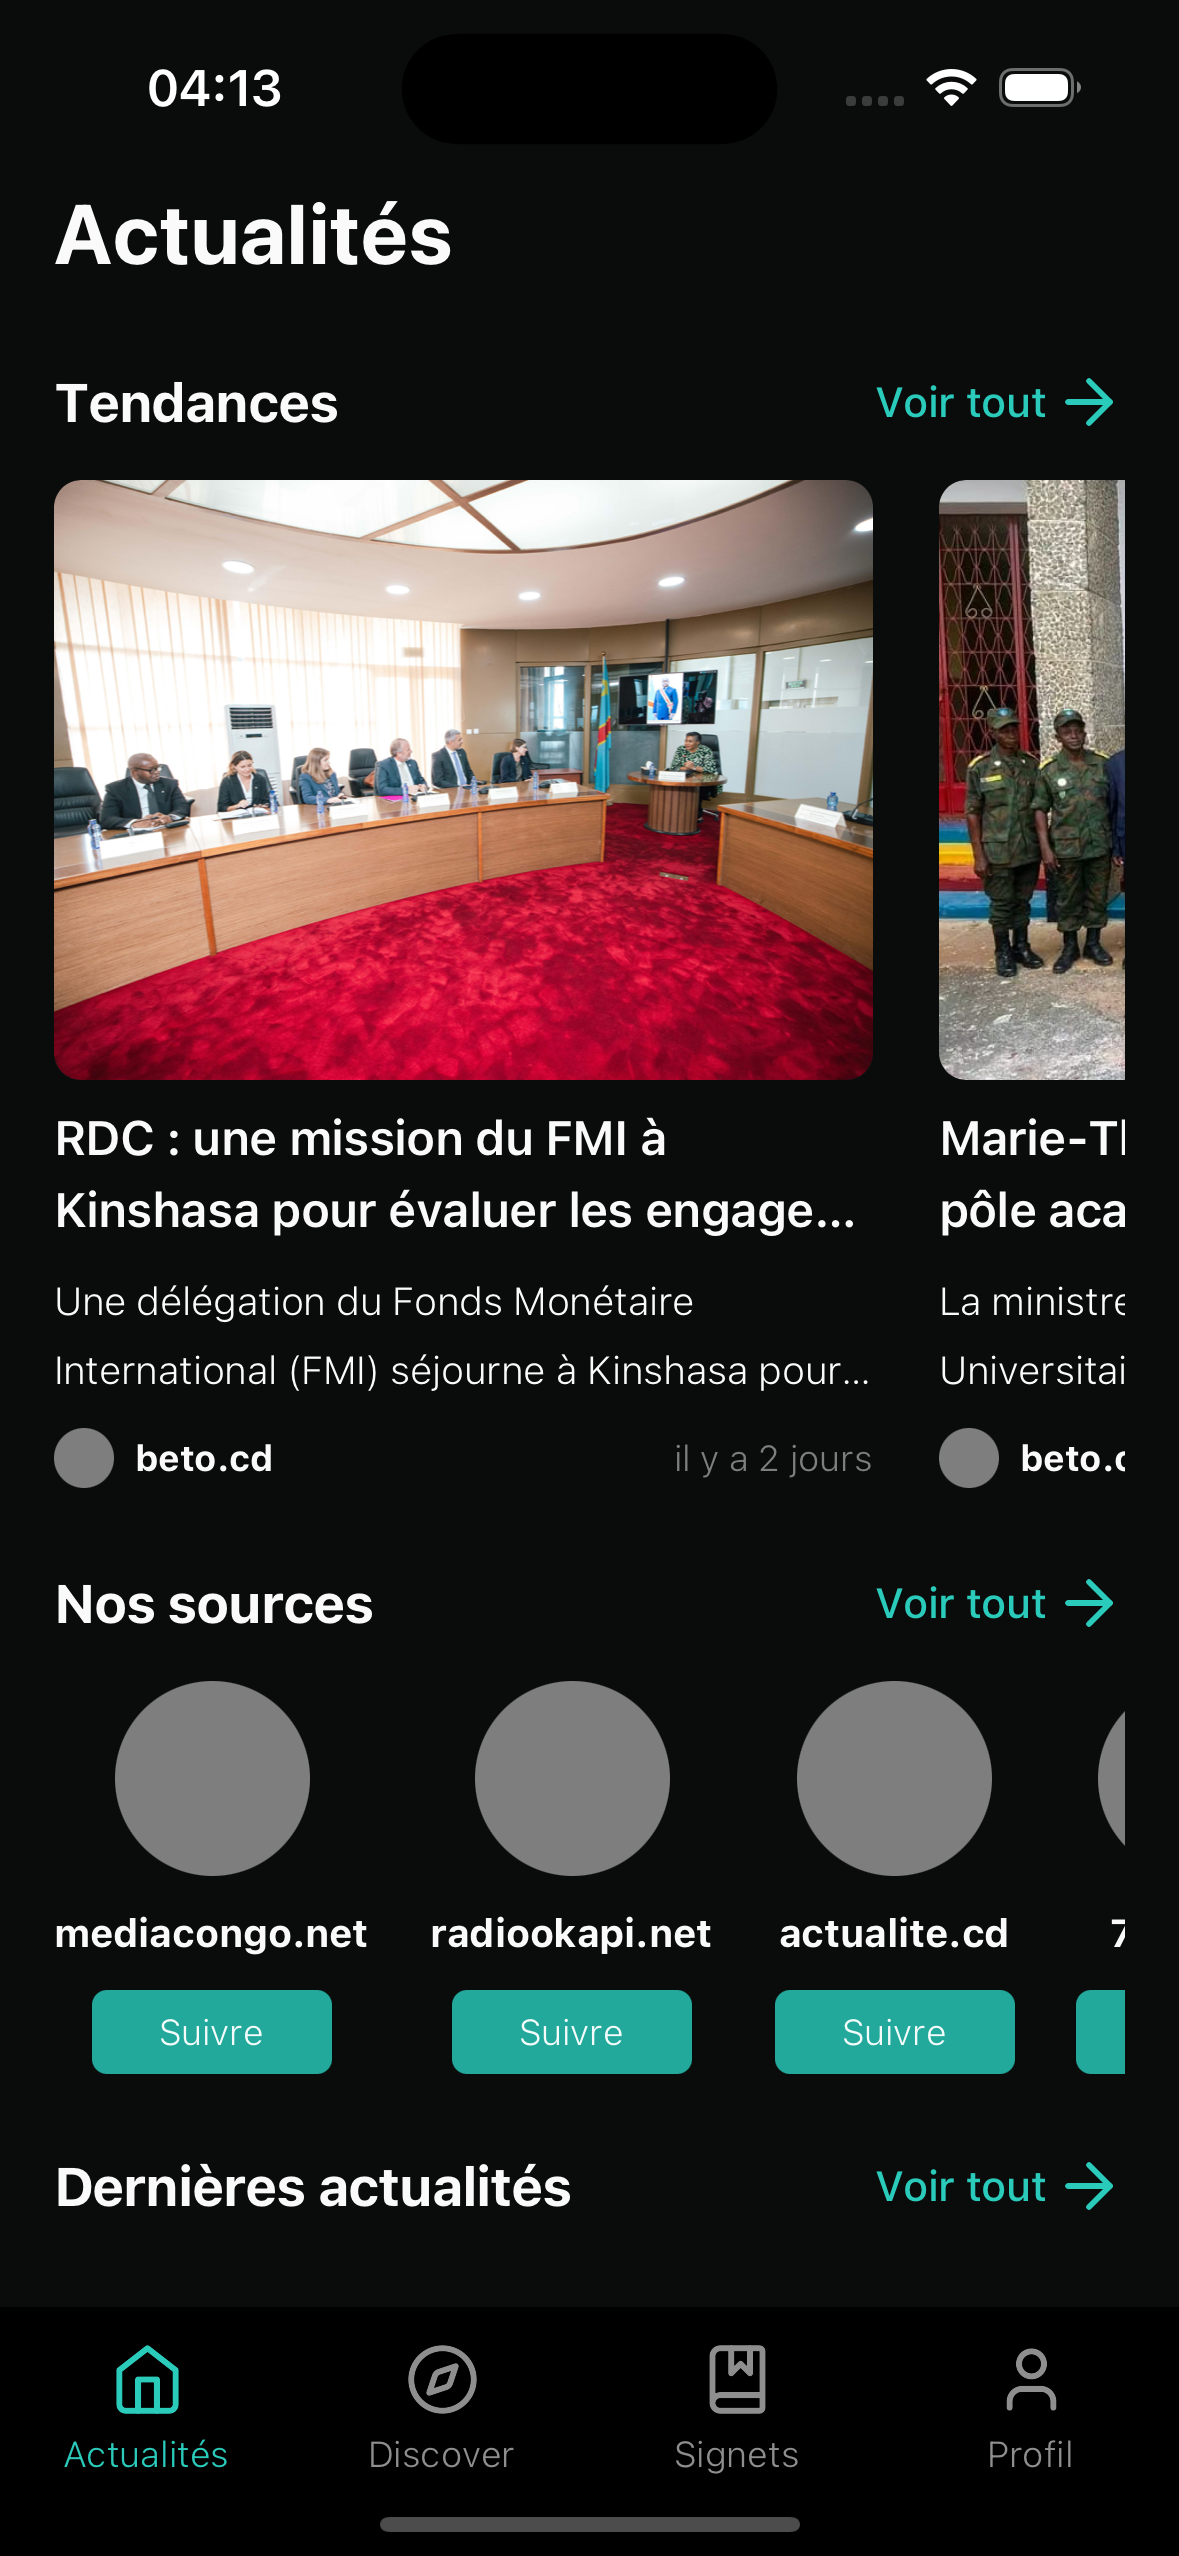
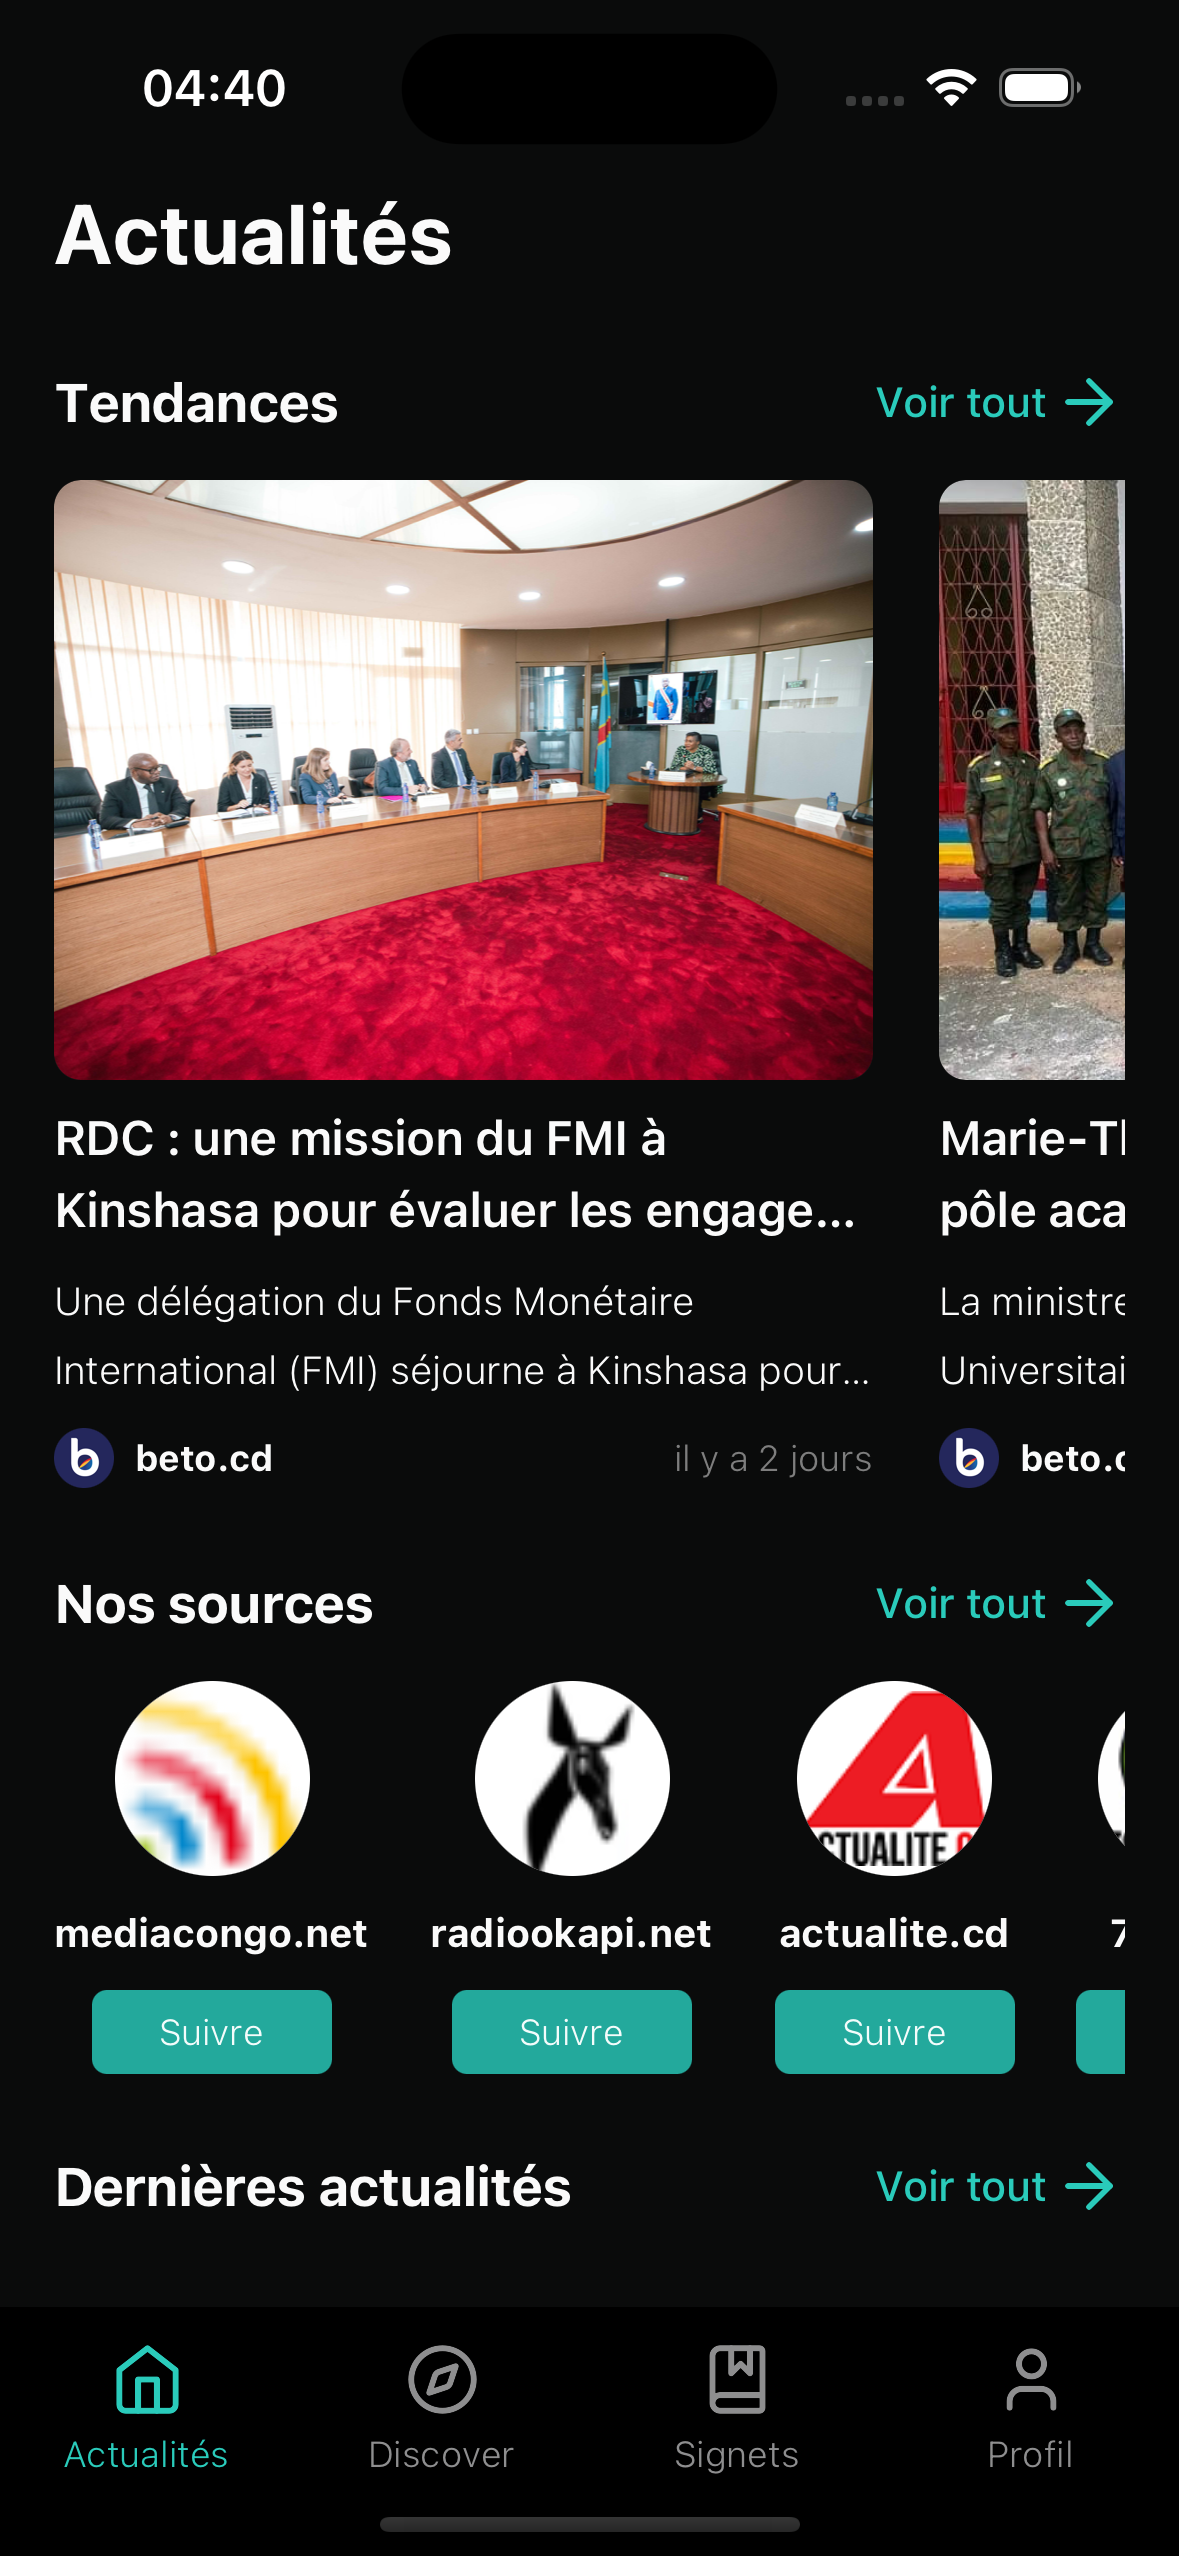
fix: source image url

diff --git a/src/ui/components/content/source/SourceAvatar.tsx b/src/ui/components/content/source/SourceAvatar.tsx
@@ -4,7 +4,7 @@ import {Image, styled} from 'tamagui';
 
 const StyledImage = styled(Image, {
     borderRadius: '$12',
-    backgroundColor: '$gray10',
+    backgroundColor: 'white',
 });
 
 type SourceAvatarProps = GetProps<typeof StyledImage> & {
@@ -20,7 +20,8 @@ export default function SourceAvatar(props: SourceAvatarProps) {
 
     return (
         <StyledImage
-            source={{uri: `https://devscast.org/images/source/${source}.png`, cache: 'force-cache'}}
+            source={{uri: `https://devscast.org/images/sources/${source}.png`, cache: 'force-cache'}}
+            objectFit="contain"
             width={resolvedSize}
             height={resolvedSize}
             {...rest}

diff --git a/src/ui/components/content/article/ArticleSourcePill.tsx b/src/ui/components/content/article/ArticleSourcePill.tsx
@@ -13,7 +13,9 @@ export default function ArticleSourcePill(props: ArticleSourcePillProps) {
             <Avatar circular size="$1">
                 <Avatar.Image
                     accessibilityLabel={source}
-                    source={{uri: `https://devscast.org/images/source/${source}.png`, cache: 'force-cache'}}
+                    objectFit="contain"
+                    backgroundColor="white"
+                    source={{uri: `https://devscast.org/images/sources/${source}.png`, cache: 'force-cache'}}
                 />
                 <Avatar.Fallback backgroundColor="$gray10"/>
             </Avatar>
